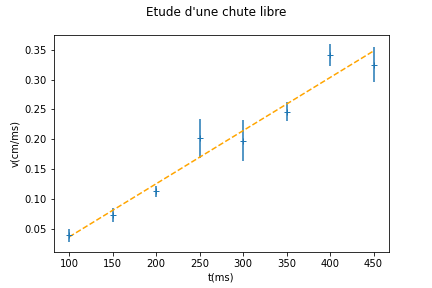
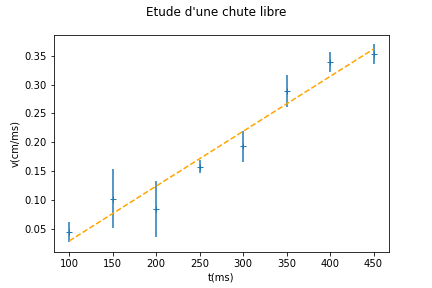
Mise à jour des sources

diff --git a/notebook/regression.md b/notebook/regression.md
@@ -161,7 +161,7 @@ f.savefig('./images/chute_grossier.png')
 f1.savefig('./images/chute_comparaison.png')
 f2.savefig('./images/chute_residus.png')
 ```
-<!-- ````{topic} Exemple
+````{topic} Exemple
 On étudie une chute d'un corps dans l'air partant d'une vitesse $v_0$. On veut le modéliser par un point matériel et supposer les frottements négligeables et le champ de pesanteur uniforme. L'objectif est :
 * de valider les hypothèses qu'on vient de donner
 * d'estimer le champ de pesanteur sur le lieu de l'expérience.
@@ -185,7 +185,7 @@ On a gardé la cohérence de précision entre vaeur mesurée et incertitude. On 
 |6| 	400| 	0.3170 | 	0.0032|
 |7| 	450| 	0.3449 | 	0.0188|
 
-* __Vérification sommaire__
+<!-- * __Vérification sommaire__
 On commence par [représenter les points](chute_fig1) $(t_i,v_i)$ avec leurs incertitudes de mesure. On observe une tendance des points à s'aligner. On va donc poursuivre l'étude en recherchant des paramètres d'ajustement linéaire.
 
 ```{figure} ./images/chute_grossier.png
@@ -227,8 +227,8 @@ On a maintenant [tracé](chute_fig3) les résidus (gauche). On remarque que les 
 :name: chute_fig3
 :align: center
 Résidus et écarts normalisés
-```
-```` -->
+``` -->
+````
 
 ## Régression linéaire et incertitude.
 
